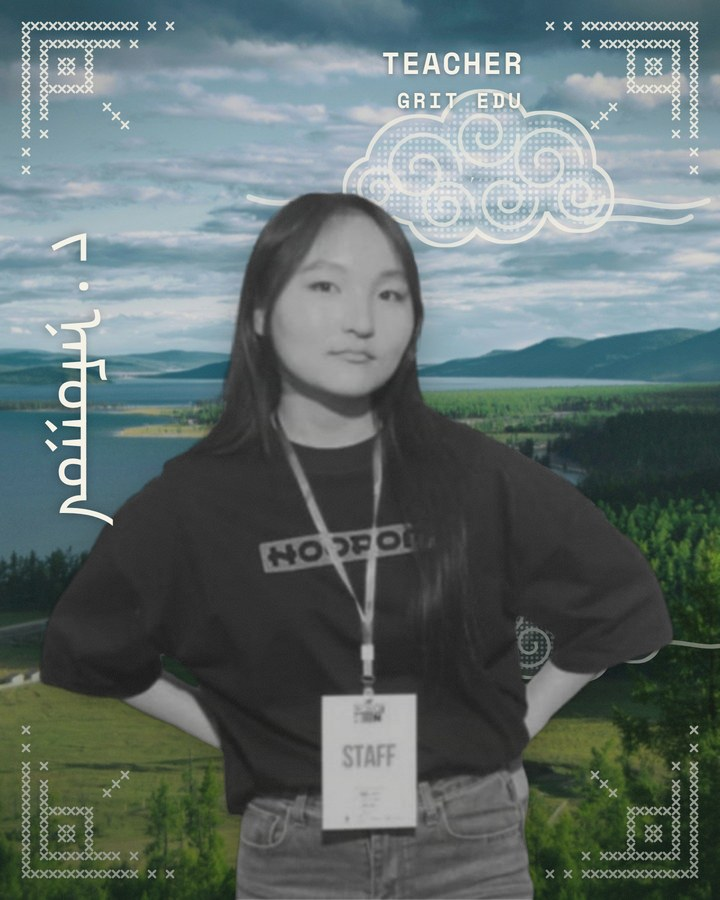
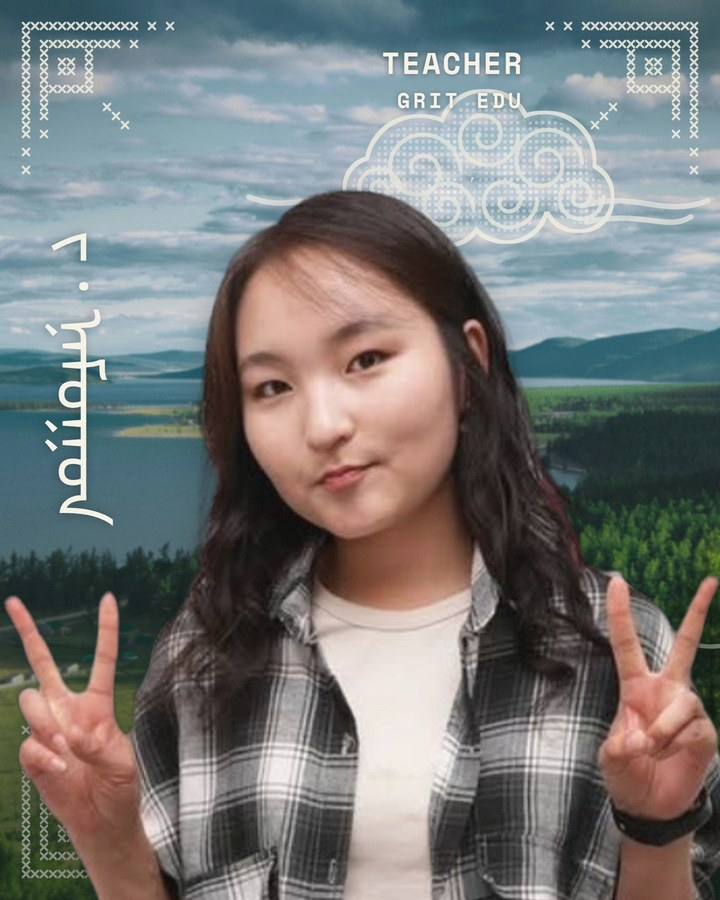
Team: new colour photo for Namuun
Claude-Session: https://claude.ai/code/session_015w2YeaPuoH2UidzmstFP66

diff --git a/index.html b/index.html
@@ -384,7 +384,7 @@
           <p class="member__school">Teacher, GRIT EDU program</p>
         </a>
         <a class="member" href="member.html?m=namuun">
-          <div class="member__photo"><img src="assets/img/team-namuun.jpg?v=6" alt="J. Namuun, Teacher, GRIT EDU program" loading="lazy"></div>
+          <div class="member__photo"><img src="assets/img/team-namuun.jpg?v=8" alt="J. Namuun, Teacher, GRIT EDU program" loading="lazy"></div>
           <p class="member__name">J. Namuun</p>
           <p class="member__school">Teacher, GRIT EDU program</p>
         </a>

diff --git a/js/team.js b/js/team.js
@@ -60,7 +60,7 @@ const TEAM = {
   namuun: {
     name: "J. Namuun",
     role: "Teacher",
-    photo: "assets/img/team-namuun.jpg?v=6",
+    photo: "assets/img/team-namuun.jpg?v=8",
     responsibilities: "University applications, country information",
     bio: [],
   },
